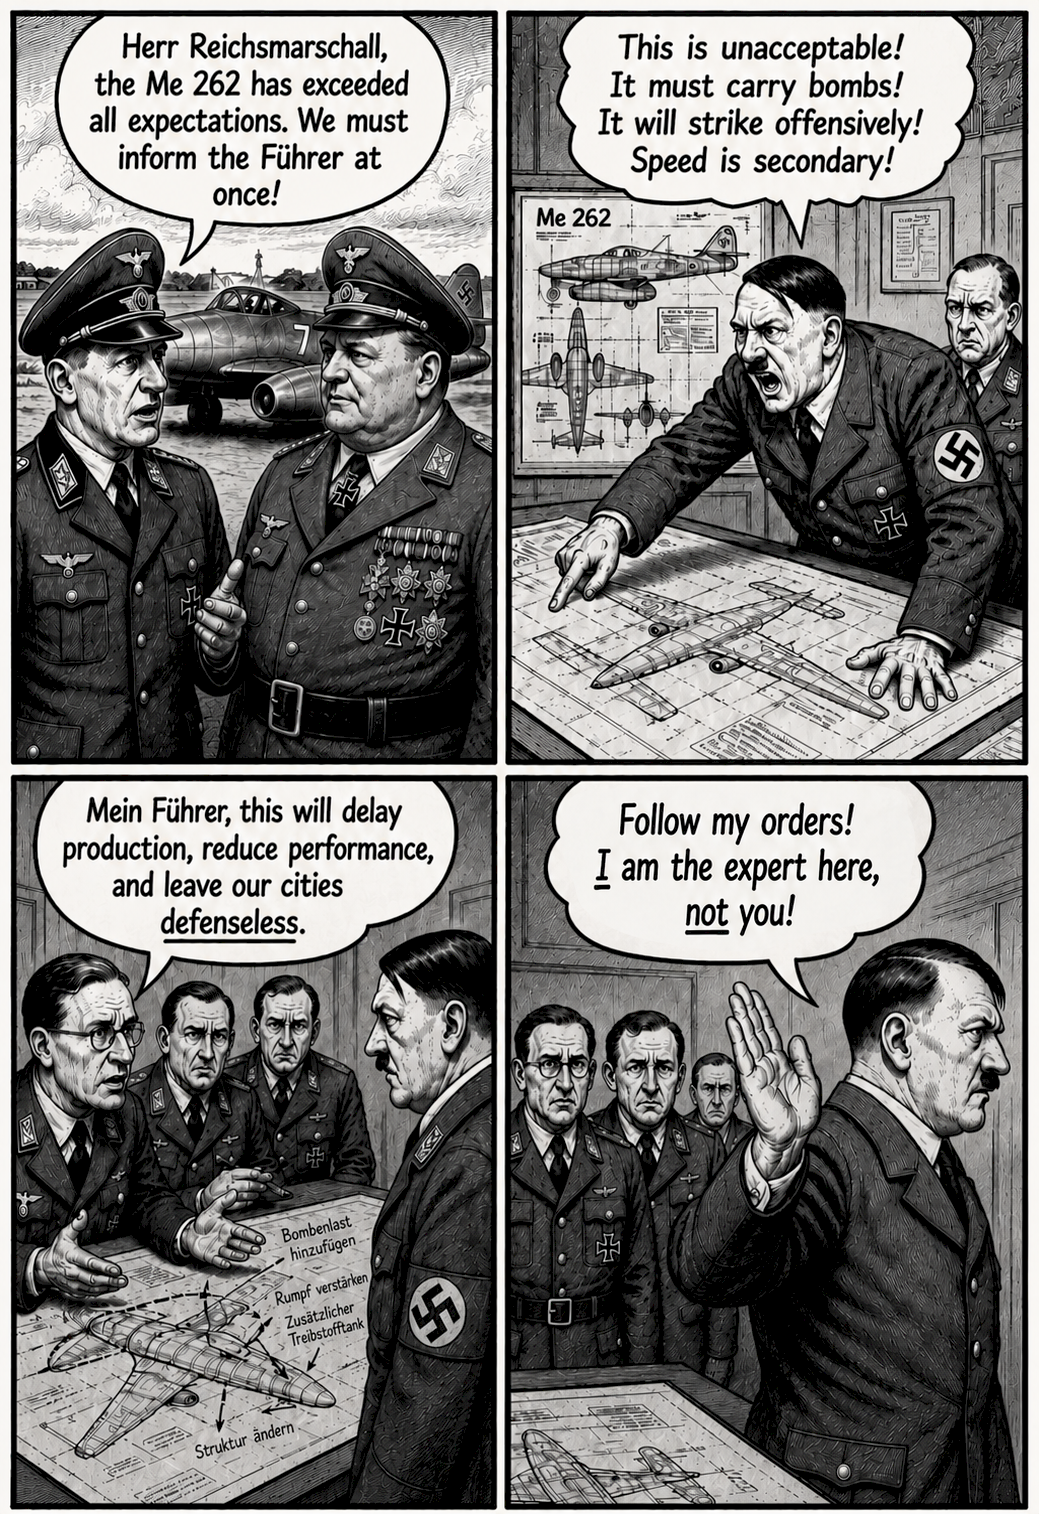
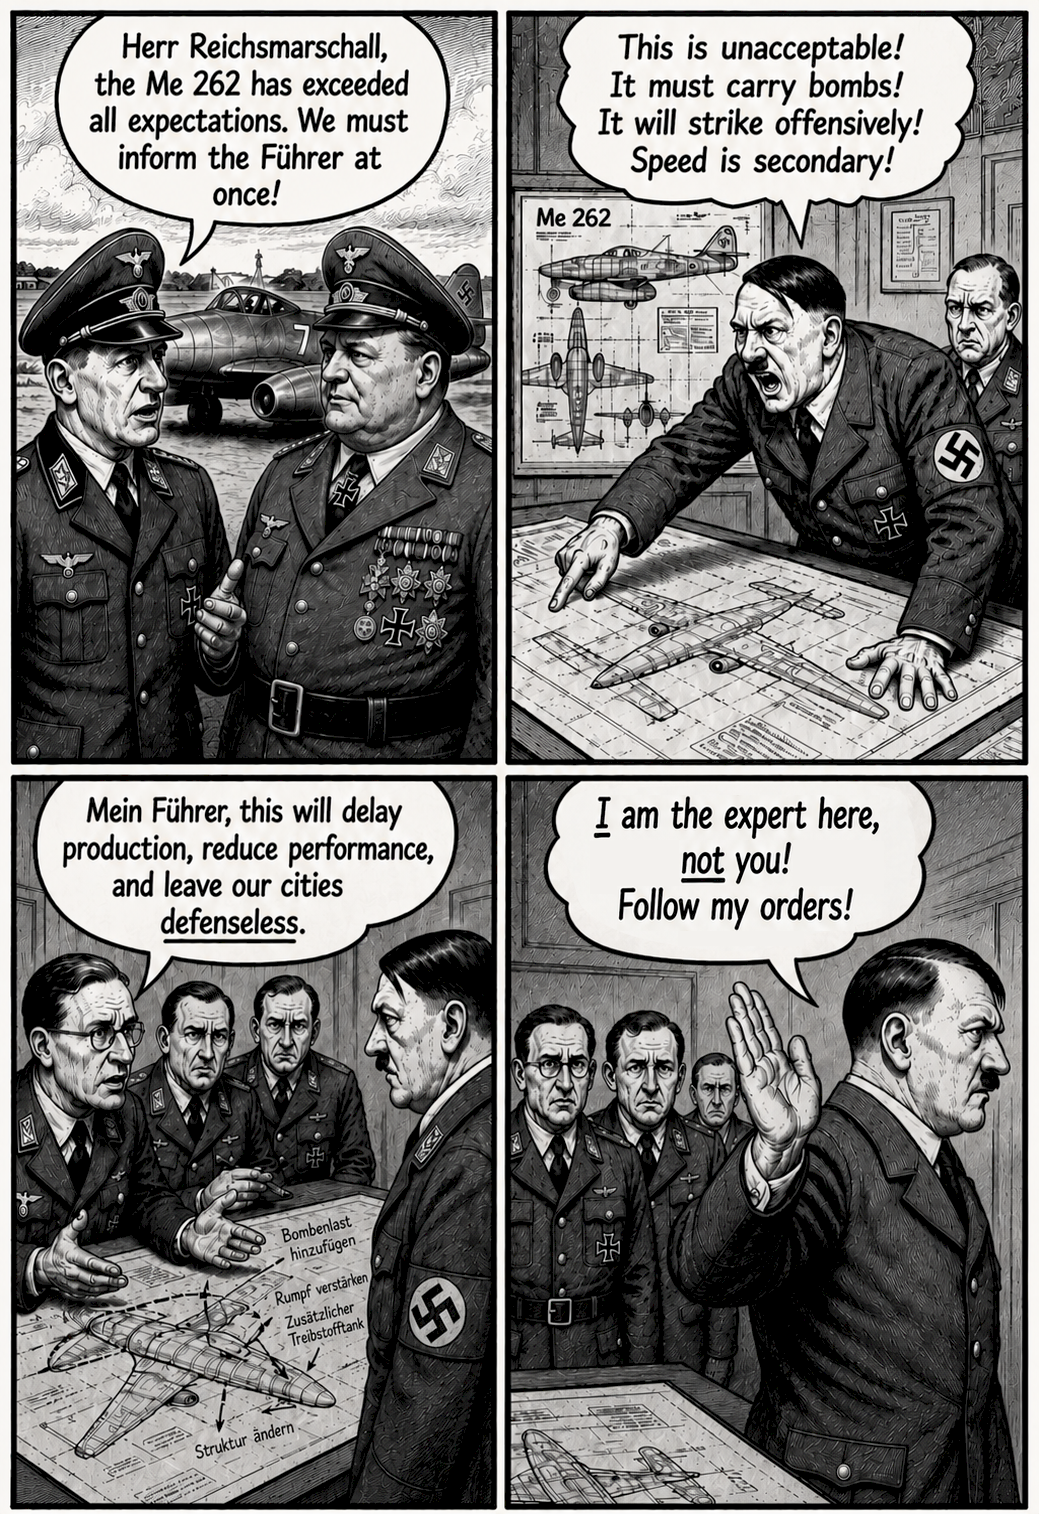
Modify Expert PNG & SHA512 hash - Rearranged text in panel 4 - Generated new SHA512 has for updated image

Changed region(s): [[0.5544, 0.5277, 0.8624, 0.6209]]

diff --git a/satire/comics/satire-the-expert-hath-spoken.html b/satire/comics/satire-the-expert-hath-spoken.html
@@ -78,8 +78,8 @@
 
                 <div class="sonnet-companion-image">
                     <img
-                        src="/assets/images/comics/satire-the-expert-hath-spoken.png?v=6B8B5C56"
-                        alt="A four-panel satirical cartoon showing Adolf Hitler overruling engineers' objections and ordering modifications to the Me 262 jet fighter, c. 1944.">
+                        src="/assets/images/comics/satire-the-expert-hath-spoken.png?v=D21541B6"
+                        alt="A four-panel satirical cartoon showing Adolf Hitler overruling engineers’ objections and ordering modifications to the Me 262 jet fighter, c. 1944.">
                         <p class="draft-mode">Draft Artwork</p>
                 </div>
             
